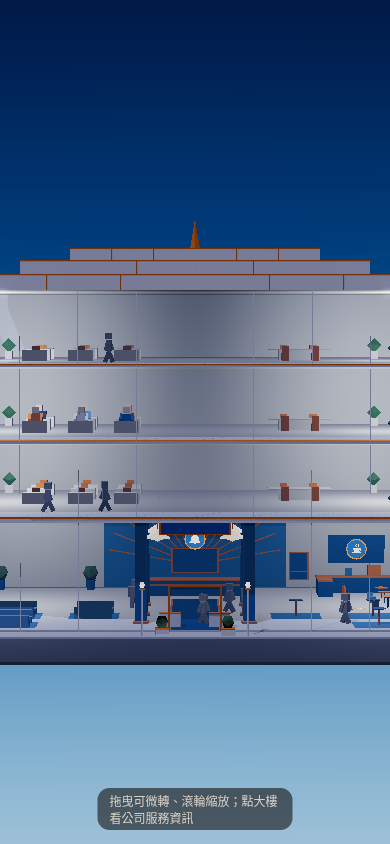
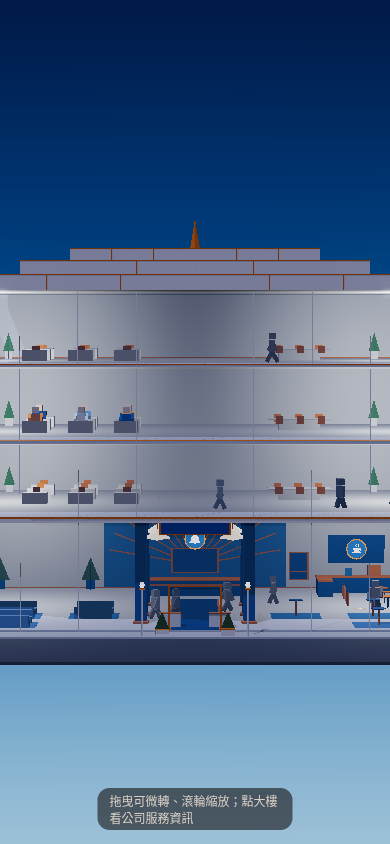
P007: minimal-face props (crossed-triangle trees, plane pots/chairs), 6 chairs per meeting table

diff --git a/site/index.html b/site/index.html
@@ -123,7 +123,7 @@ function lobby1F(y, g, m) { const BZ1 = -D1 / 2 + .2, P = (geo, mm, x, yy, z) =>
   
   const CH = [[-2.4, 5.1, 0], [2.4, 5.1, 0], [-2.4, 1.2, 0], [2.4, 1.2, 0], [-2.4, -3.2, .5], [2.4, -3.2, .5]]; 
   inst(cyl(.02, .02, 1.2, 4), L1.gold, CH.map(c => [c[0], y + FH1 - T - .6 + c[2] / 2, c[1]]), g); inst(new THREE.ConeGeometry(.9, .6, 8, 1, true), L1.shade, CH.map(c => [c[0], y + FH1 - T - 1.35 + c[2], c[1]]), g, 0, 1);
-  inst(new THREE.SphereGeometry(.32, 6, 4), m.light, CH.map(c => [c[0], y + FH1 - T - 1.55 + c[2], c[1]]), g);
+  inst(new THREE.OctahedronGeometry(.32, 0), m.light, CH.map(c => [c[0], y + FH1 - T - 1.55 + c[2], c[1]]), g);
   
   [-1, 1].forEach(s => { const x = s * ELEV_X; P(B(1.7, FH1 - T - 2.45, .3), L1.main, x, 2.45 + (FH1 - T - 2.45) / 2, ELEV_Z + .62); P(B(1.74, .06, .32), L1.gold, x, 2.45, ELEV_Z + .62);
     [-1, 1].forEach(d => P(B(.08, FH1 - T, .32), L1.gold, x + d * .85, (FH1 - T) / 2, ELEV_Z + .62)); placeIcon('elevator', g, x, y + 3.6, ELEV_Z + .78); });
@@ -152,7 +152,7 @@ function lobby1F(y, g, m) { const BZ1 = -D1 / 2 + .2, P = (geo, mm, x, yy, z) =>
   placeIcon('sofa', g, -XW + .04, y + 2.8, 5.7, Math.PI / 2); placeIcon('members', g, XW - .04, y + 2.8, 5.7, -Math.PI / 2);
   
   const PL = [[-13.8, 9], [13.8, 9], [-13.8, -9], [-7.4, -9]];
-  inst(cyl(.35, .28, .7, 8), L1.main, PL.map(p => [p[0], y + .35, p[1]]), g); inst(new THREE.IcosahedronGeometry(.6, 0), L1.green, PL.map(p => [p[0], y + 1.2, p[1]]), g);
+  inst(XT(.65, .7), DS(L1.main), PL.map(p => [p[0], y + .35, p[1]]), g); inst(XT(1.3, 1.6, 1), DS(L1.green), PL.map(p => [p[0], y + 1.5, p[1]]), g);
 }
 
 function mergeStatic(root, shallow) {
@@ -208,7 +208,7 @@ function build(floors) {
   mesh(B(W1 + .3, .06, .06), SH.trim, 0, .06, D1 / 2 + .14, world, false);
   [[0, D1 / 2 + .18, W1 + .4, .05], [0, -D1 / 2 - .18, W1 + .4, .05], [W1 / 2 + .18, 0, .05, D1 + .4], [-W1 / 2 - .18, 0, .05, D1 + .4]].forEach(e => mesh(B(e[2], .05, e[3]), L1.gold, e[0], FH1 + .1, e[1], world, false)); 
   { const FZ = D1 / 2 + 1.6, U = (parts) => mergeGeometries(parts.map(q => { const gg = q[0].index ? q[0].toNonIndexed() : q[0]; ['uv'].forEach(a => gg.deleteAttribute(a)); gg.translate(q[1], q[2], q[3]); return gg; })); 
-    const unit = [[U([[cyl(.06, .08, 3, 6), 3.2, 1.5, 0], [B(.8, .55, .8), 2.0, .28, -.2]]), SH.main], [U([[B(.36, .08, .36), 3.2, 3.0, 0], [B(.86, .05, .86), 2.0, .57, -.2]]), L1.gold], [U([[new THREE.IcosahedronGeometry(.2, 0), 3.2, 3.22, 0]]), FM['1F'].light], [U([[new THREE.IcosahedronGeometry(.42, 0), 2.0, .95, -.2]]), L1.green]];
+    const unit = [[U([[cyl(.06, .08, 3, 6), 3.2, 1.5, 0], [B(.8, .55, .8), 2.0, .28, -.2]]), SH.main], [U([[B(.36, .08, .36), 3.2, 3.0, 0], [B(.86, .05, .86), 2.0, .57, -.2]]), L1.gold], [U([[new THREE.IcosahedronGeometry(.2, 0), 3.2, 3.22, 0]]), FM['1F'].light], [U([[XT(.9, 1.1, 1), 2.0, 1.05, -.2]]), DS(L1.green)]];
     unit.forEach(([geo, mm]) => { const im = new THREE.InstancedMesh(geo, mm, 2), o = new THREE.Object3D(); [1, -1].forEach((sx, i) => { o.position.set(0, 0, FZ); o.scale.set(sx, 1, 1); o.updateMatrix(); im.setMatrixAt(i, o.matrix); }); im.castShadow = true; world.add(im); }); } 
   let y = H, w = W + .3, d = D + .3; [[.9, 1.0], [.72, .9], [.52, .8]].forEach((s) => {
     const hh = s[1]; mesh(B(w * s[0], hh, d * s[0]), SH.main, 0, y + hh / 2, 0, world); mesh(B(w * s[0] + .06, .06, d * s[0] + .06), SH.trim, 0, y + hh, 0, world, false);
@@ -223,6 +223,8 @@ scene.add(new THREE.HemisphereLight(0xc8c6d8, 0x3a3230, .85));
 const moon = new THREE.DirectionalLight(0xbfc8ff, .9); moon.position.set(-12, 30, 22); moon.castShadow = true;
 moon.shadow.mapSize.set(2048, 2048); moon.shadow.radius = 4; Object.assign(moon.shadow.camera, { left: -24, right: 24, top: 30, bottom: -6, near: 1, far: 80 }); moon.shadow.bias = -.0005; scene.add(moon);
 function doorSync(fid) { const L = DOORS[fid], im = L && L.im; if (!im) return; L.forEach((D0, j) => D0.pan.forEach((p, i) => { p.updateMatrix(); im.setMatrixAt(j * 2 + i, p.matrix); })); im.instanceMatrix.needsUpdate = true; }
+function XT(w, h, tri) { const mk = () => { if (!tri) return new THREE.PlaneGeometry(w, h); const g = new THREE.BufferGeometry(); g.setAttribute('position', new THREE.Float32BufferAttribute([-w / 2, -h / 2, 0, w / 2, -h / 2, 0, 0, h / 2, 0], 3)); g.setAttribute('uv', new THREE.Float32BufferAttribute([0, 0, 1, 0, .5, 1], 2)); g.computeVertexNormals(); return g; }; const a = mk(), b = mk(); b.rotateY(Math.PI / 2); return mergeGeometries([a, b]); }
+const _DS = new Map(); function DS(m) { if (!_DS.has(m)) { const c = m.clone(); c.side = THREE.DoubleSide; _DS.set(m, c); } return _DS.get(m); }
 const ELEV_X = W / 2 - .75, ELEV_Z = 0, ELEV_GLASS = new THREE.MeshStandardMaterial({ color: 0x9fb6d8, transparent: true, opacity: .16, roughness: .2, depthWrite: false });
 const DOORS = {}, DOORM = mat(0xBFD9F2);
 function buildExtras(fid, y, g, m) {
@@ -240,14 +242,14 @@ function camHome(H) { towerH = H; const a = innerWidth / Math.max(1, innerHeight
 function setCam(t, dist, now, straight) { from.p.copy(camera.position); from.t.copy(controls.target); target.copy(t); camPos.set(straight ? 0 : t.x + dist * .12, t.y + dist * .05, t.z + dist); tweenT = now ? 1 : 0; if (now) { camera.position.copy(camPos); controls.target.copy(target); } }
 controls.maxDistance = 260; camera.far = 700; camera.updateProjectionMatrix();
 build([{ floor_id: 'RF' }, { floor_id: '3F' }, { floor_id: '2F' }, { floor_id: '1F' }]);
-{ const OM = { desk: mat(0xFFFFFF), edge: mat(0xF08A24), chair: mat(0xF08A24), screen: mat(0x5A6B7D), pot: mat(0xF4F6F9), leaf: mat(0x5E9E6A), table: mat(0xF4F6F9) };
+{ const OM = { desk: mat(0xFFFFFF), edge: mat(0xF08A24), chair: DS(mat(0xF08A24)), screen: mat(0x5A6B7D), pot: DS(mat(0xF4F6F9)), leaf: DS(mat(0x5E9E6A)), table: mat(0xF4F6F9) };
   const U = (parts) => mergeGeometries(parts.map(q => { const gg = q[0].index ? q[0].toNonIndexed() : q[0].clone(); gg.deleteAttribute('uv'); gg.deleteAttribute('normal'); gg.translate(q[1], q[2], q[3]); gg.computeVertexNormals(); return gg; }));
-  const deskG = U([[B(1.6, .76, .8), 0, .38, 0]]), edgeG = B(1.6, .04, .02), chairG = U([[B(.5, .5, .5), 0, .25, 0], [B(.5, .5, .08), 0, .75, .21]]), scrG = B(.6, .36, .04);
-  const tableG = U([[B(4.2, .06, 1.6), 0, .74, 0], [B(2.8, .72, .3), 0, .36, 0]]), potG = B(.5, .55, .5), leafG = new THREE.OctahedronGeometry(.5, 0);
+  const deskG = U([[B(1.6, .76, .8), 0, .38, 0]]), edgeG = B(1.6, .04, .02), chairG = U([[new THREE.PlaneGeometry(.5, .5).rotateX(-Math.PI / 2), 0, .5, 0], [new THREE.PlaneGeometry(.5, .5), 0, .75, .25]]), scrG = B(.6, .36, .04);
+  const tableG = U([[B(4.2, .06, 1.6), 0, .74, 0], [B(2.8, .72, .3), 0, .36, 0]]), potG = XT(.5, .55), leafG = XT(1, 1.3, 1);
   const L = { desk: [], edge: [], chair: [], scr: [], table: [], pot: [], leaf: [] };
   OFFICE_FLOORS.forEach(y => { [-10.5, -7.5, -4.5].forEach(x => [-5.5, -2.2, 1.1].forEach(z => { L.desk.push([x, y, z, 0]); L.chair.push([x, y, z - .8, Math.PI]); }));
-    L.table.push([7, y, -2, 0]); [[-1, -1.1, 0], [1, -1.1, 0], [-1, 1.1, Math.PI], [1, 1.1, Math.PI]].forEach(c => L.chair.push([7 + c[0], y, -2 + c[1], c[2] === 0 ? Math.PI : 0]));
-    [[-13, -7.5], [12.5, -7.5], [-13, 7.5], [12.5, 7.5]].forEach(p => { L.pot.push([p[0], y + .27, p[1], 0]); L.leaf.push([p[0], y + .95, p[1], 0]); }); });
+    L.table.push([7, y, -2, 0]); [[-1.4, -1.1, 0], [0, -1.1, 0], [1.4, -1.1, 0], [-1.4, 1.1, Math.PI], [0, 1.1, Math.PI], [1.4, 1.1, Math.PI]].forEach(c => L.chair.push([7 + c[0], y, -2 + c[1], c[2] === 0 ? Math.PI : 0]));
+    [[-13, -7.5], [12.5, -7.5], [-13, 7.5], [12.5, 7.5]].forEach(p => { L.pot.push([p[0], y + .27, p[1], 0]); L.leaf.push([p[0], y + 1.2, p[1], .785]); }); });
   const o = new THREE.Object3D(); [[deskG, OM.desk, L.desk], [chairG, OM.chair, L.chair], [tableG, OM.table, L.table], [potG, OM.pot, L.pot], [leafG, OM.leaf, L.leaf]].forEach(([g, m, list]) => { const im = new THREE.InstancedMesh(g, m, list.length); list.forEach((p, i) => { o.position.set(p[0], p[1], p[2]); o.rotation.set(0, p[3], 0); o.updateMatrix(); im.setMatrixAt(i, o.matrix); }); im.castShadow = true; im.receiveShadow = true; world.add(im); }); }
 
 const DESK_X = [-10.5, -7.5, -4.5], DESK_Z = [-5.5, -2.2, 1.1], deskPos = k => [DESK_X[Math.floor(k / 3) % 3], DESK_Z[k % 3]];

diff --git a/tools/tail.js b/tools/tail.js
@@ -5,14 +5,14 @@ function camHome(H) { towerH = H; const a = innerWidth / Math.max(1, innerHeight
 function setCam(t, dist, now, straight) { from.p.copy(camera.position); from.t.copy(controls.target); target.copy(t); camPos.set(straight ? 0 : t.x + dist * .12, t.y + dist * .05, t.z + dist); tweenT = now ? 1 : 0; if (now) { camera.position.copy(camPos); controls.target.copy(target); } }
 controls.maxDistance = 260; camera.far = 700; camera.updateProjectionMatrix();
 build([{ floor_id: 'RF' }, { floor_id: '3F' }, { floor_id: '2F' }, { floor_id: '1F' }]);
-{ const OM = { desk: mat(0xFFFFFF), edge: mat(0xF08A24), chair: mat(0xF08A24), screen: mat(0x5A6B7D), pot: mat(0xF4F6F9), leaf: mat(0x5E9E6A), table: mat(0xF4F6F9) };
+{ const OM = { desk: mat(0xFFFFFF), edge: mat(0xF08A24), chair: DS(mat(0xF08A24)), screen: mat(0x5A6B7D), pot: DS(mat(0xF4F6F9)), leaf: DS(mat(0x5E9E6A)), table: mat(0xF4F6F9) };
   const U = (parts) => mergeGeometries(parts.map(q => { const gg = q[0].index ? q[0].toNonIndexed() : q[0].clone(); gg.deleteAttribute('uv'); gg.deleteAttribute('normal'); gg.translate(q[1], q[2], q[3]); gg.computeVertexNormals(); return gg; }));
-  const deskG = U([[B(1.6, .76, .8), 0, .38, 0]]), edgeG = B(1.6, .04, .02), chairG = U([[B(.5, .5, .5), 0, .25, 0], [B(.5, .5, .08), 0, .75, .21]]), scrG = B(.6, .36, .04);
-  const tableG = U([[B(4.2, .06, 1.6), 0, .74, 0], [B(2.8, .72, .3), 0, .36, 0]]), potG = B(.5, .55, .5), leafG = new THREE.OctahedronGeometry(.5, 0);
+  const deskG = U([[B(1.6, .76, .8), 0, .38, 0]]), edgeG = B(1.6, .04, .02), chairG = U([[new THREE.PlaneGeometry(.5, .5).rotateX(-Math.PI / 2), 0, .5, 0], [new THREE.PlaneGeometry(.5, .5), 0, .75, .25]]), scrG = B(.6, .36, .04);
+  const tableG = U([[B(4.2, .06, 1.6), 0, .74, 0], [B(2.8, .72, .3), 0, .36, 0]]), potG = XT(.5, .55), leafG = XT(1, 1.3, 1);
   const L = { desk: [], edge: [], chair: [], scr: [], table: [], pot: [], leaf: [] };
   OFFICE_FLOORS.forEach(y => { [-10.5, -7.5, -4.5].forEach(x => [-5.5, -2.2, 1.1].forEach(z => { L.desk.push([x, y, z, 0]); L.chair.push([x, y, z - .8, Math.PI]); }));
-    L.table.push([7, y, -2, 0]); [[-1, -1.1, 0], [1, -1.1, 0], [-1, 1.1, Math.PI], [1, 1.1, Math.PI]].forEach(c => L.chair.push([7 + c[0], y, -2 + c[1], c[2] === 0 ? Math.PI : 0]));
-    [[-13, -7.5], [12.5, -7.5], [-13, 7.5], [12.5, 7.5]].forEach(p => { L.pot.push([p[0], y + .27, p[1], 0]); L.leaf.push([p[0], y + .95, p[1], 0]); }); });
+    L.table.push([7, y, -2, 0]); [[-1.4, -1.1, 0], [0, -1.1, 0], [1.4, -1.1, 0], [-1.4, 1.1, Math.PI], [0, 1.1, Math.PI], [1.4, 1.1, Math.PI]].forEach(c => L.chair.push([7 + c[0], y, -2 + c[1], c[2] === 0 ? Math.PI : 0]));
+    [[-13, -7.5], [12.5, -7.5], [-13, 7.5], [12.5, 7.5]].forEach(p => { L.pot.push([p[0], y + .27, p[1], 0]); L.leaf.push([p[0], y + 1.2, p[1], .785]); }); });
   const o = new THREE.Object3D(); [[deskG, OM.desk, L.desk], [chairG, OM.chair, L.chair], [tableG, OM.table, L.table], [potG, OM.pot, L.pot], [leafG, OM.leaf, L.leaf]].forEach(([g, m, list]) => { const im = new THREE.InstancedMesh(g, m, list.length); list.forEach((p, i) => { o.position.set(p[0], p[1], p[2]); o.rotation.set(0, p[3], 0); o.updateMatrix(); im.setMatrixAt(i, o.matrix); }); im.castShadow = true; im.receiveShadow = true; world.add(im); }); }
 
 const DESK_X = [-10.5, -7.5, -4.5], DESK_Z = [-5.5, -2.2, 1.1], deskPos = k => [DESK_X[Math.floor(k / 3) % 3], DESK_Z[k % 3]];

diff --git a/tools/gen.py b/tools/gen.py
@@ -11,6 +11,8 @@ js=re.sub(r'/\*.*?\*/','',js)
 js=re.sub(r'(?<![:\'"])//[^\n]*','',js)  # drop comments (they carry internal names)
 js=js.replace("red: 0x8C040C, ","")
 extras='''
+function XT(w, h, tri) { const mk = () => { if (!tri) return new THREE.PlaneGeometry(w, h); const g = new THREE.BufferGeometry(); g.setAttribute('position', new THREE.Float32BufferAttribute([-w / 2, -h / 2, 0, w / 2, -h / 2, 0, 0, h / 2, 0], 3)); g.setAttribute('uv', new THREE.Float32BufferAttribute([0, 0, 1, 0, .5, 1], 2)); g.computeVertexNormals(); return g; }; const a = mk(), b = mk(); b.rotateY(Math.PI / 2); return mergeGeometries([a, b]); }
+const _DS = new Map(); function DS(m) { if (!_DS.has(m)) { const c = m.clone(); c.side = THREE.DoubleSide; _DS.set(m, c); } return _DS.get(m); }
 const ELEV_X = W / 2 - .75, ELEV_Z = 0, ELEV_GLASS = new THREE.MeshStandardMaterial({ color: 0x9fb6d8, transparent: true, opacity: .16, roughness: .2, depthWrite: false });
 const DOORS = {}, DOORM = mat(0xBFD9F2);
 function buildExtras(fid, y, g, m) {

diff --git a/tools/restyle.py b/tools/restyle.py
@@ -38,3 +38,9 @@ rep("for (let k = -2; k <= 2; k++) if (i || k) mesh(B(.04, FH - .2, .04), SH.tri
 rep("SH.main, k * (W / 4.2),","SH.main, k * (W / 8.4),")
 rep("else furnish(fid, y + T, g);","else OFFICE_FLOORS.push(y + T);")
 rep("const W1 = 30,","const OFFICE_FLOORS = []; const W1 = 30,")
+
+# minimal-face props: crossed planes for greenery/pots, low-poly lamps
+rep("inst(cyl(.35, .28, .7, 8), L1.main, PL.map(p => [p[0], y + .35, p[1]]), g); inst(new THREE.IcosahedronGeometry(.6, 0), L1.green,","inst(XT(.65, .7), DS(L1.main), PL.map(p => [p[0], y + .35, p[1]]), g); inst(XT(1.3, 1.6, 1), DS(L1.green),")
+rep("[U([[new THREE.IcosahedronGeometry(.42, 0), 2.0, .95, -.2]]), L1.green]","[U([[XT(.9, 1.1, 1), 2.0, 1.05, -.2]]), DS(L1.green)]")
+rep("new THREE.SphereGeometry(.32, 6, 4)","new THREE.OctahedronGeometry(.32, 0)")
+rep("DS(L1.green), PL.map(p => [p[0], y + 1.2, p[1]])","DS(L1.green), PL.map(p => [p[0], y + 1.5, p[1]])")
